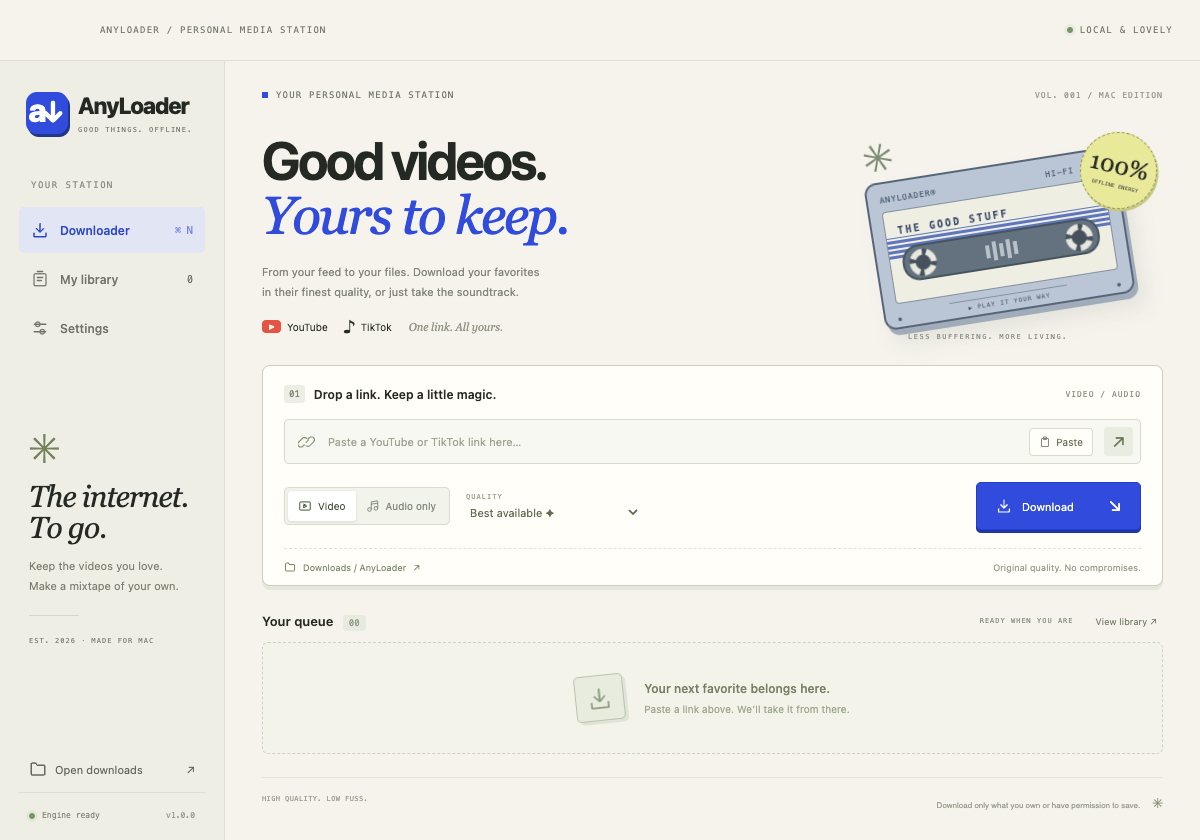
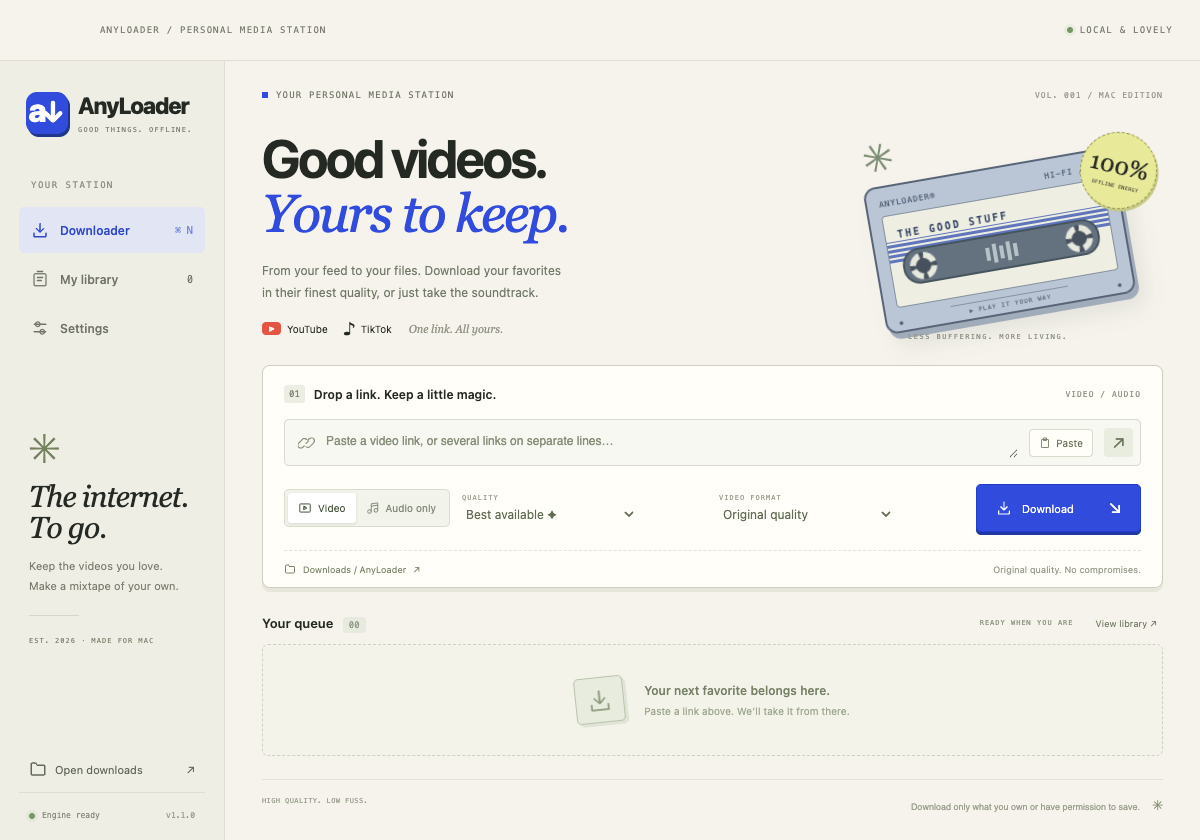
Document AnyLoader 1.1 with real editing-workflow screenshots

diff --git a/README.md b/README.md
@@ -2,7 +2,7 @@
   <img src="assets/icon.png" width="100" alt="AnyLoader app icon" />
   <h1>AnyLoader</h1>
   <p><strong>A little retro. A lot of resolution.</strong></p>
-  <p>Your personal media station for Mac.<br>Save YouTube and TikTok videos, or just take the soundtrack.</p>
+  <p>Your personal media station for Mac.<br>Collect editing references. Save templates. Take the soundtrack.</p>
   <p>
     <img alt="macOS 13 or later" src="https://img.shields.io/badge/macOS-13%2B-314cdd?style=flat-square" />
     <img alt="Apple Silicon" src="https://img.shields.io/badge/Apple_Silicon-native-758365?style=flat-square" />
@@ -23,9 +23,11 @@ No terminal, Homebrew, or separately installed download tools are needed to **us
 | --- | --- |
 | **YouTube & TikTok** | Individual videos, Shorts, and TikTok share links. |
 | **Best available quality** | Selects the best video and audio streams, then merges them. No artificial resolution cap on “Best available.” |
-| **Just the soundtrack** | Original audio, MP3, M4A, FLAC, or WAV. |
+| **Just the soundtrack** | Download original audio, MP3, M4A, FLAC, or WAV. Extract audio from a saved library video without downloading again. |
+| **Made for your edits** | H.264/AAC MP4 option, 48 kHz / 24-bit WAV exports, and optional start/end times for sound clips. |
 | **A proper queue** | Live progress, speed, ETA, one to three simultaneous downloads, pause, resume, cancel, and retry. |
-| **Your offline library** | Persistent history, search, filters, playback, and Show in Finder. |
+| **Your offline library** | Persistent history, favorites, search, video/audio/export filters, playback, and Show in Finder. |
+| **Less waiting** | Instant batch queueing for up to 20 links, a single metadata/download pass, and configurable parallel fragments. |
 | **Feels at home** | Custom Dock icon, Dock progress and badge, native menus, folder picker, and optional notifications. |
 | **Quiet by design** | No analytics, account, subscription, or application backend. Preferences and history stay on your Mac. |
 | **A little motion** | Animated tape reels and gentle transitions, with support for Reduce Motion. |
@@ -35,7 +37,7 @@ No terminal, Homebrew, or separately installed download tools are needed to **us
 1. Download the Apple Silicon ZIP from [Releases](https://github.com/alexandr-shalanin/anyloader/releases/latest).
 2. Unzip it and move **AnyLoader.app** into **Applications**.
 3. Open it, then right-click its Dock icon → **Options → Keep in Dock**.
-4. Paste a YouTube or TikTok video link. Choose **Video** or **Audio only**, select a quality or format, and press **Download**.
+4. Paste a YouTube or TikTok video link (or up to 20 links, one per line). Choose **Video** or **Audio only**, select a quality or format, and press **Download**.
 
 Files go to `~/Downloads/AnyLoader` by default. Click the destination below the download controls to choose another folder. Closing the window leaves the app and its downloads running; **⌘ Q** quits and pauses unfinished work. Open it again and press Resume to continue where the source supports it.
 
@@ -45,9 +47,20 @@ Files go to `~/Downloads/AnyLoader` by default. Click the destination below the 
 
 **Original quality · MKV** is the default. It preserves the highest-quality available source codecs, including AV1 or VP9 where offered. MKV is used when separate streams need merging; a source already containing both tracks can keep its original container. Use a player that supports the source codecs and container.
 
-**Compatible · MP4**, in Settings, prefers H.264 video and AAC audio. This can have a lower resolution than the original-quality option. If a source does not provide those codecs, the best available fallback is used; an MP4 extension alone does not guarantee QuickTime compatibility.
+**Editing MP4**, next to the quality selector, selects H.264 video and AAC audio for easier importing into editors. This can have a lower resolution than the original-quality option. If a source does not provide those codecs, AnyLoader reports that clearly instead of silently falling back to a different codec. It does not transcode video or invent higher resolutions.
 
 Resolution selections are **upper limits**. A 720p source cannot become real 4K. “Original audio” preserves the best available audio; MP3 uses the encoder's highest VBR quality. FLAC and WAV conversions do not restore detail that the source already lost.
+
+## From library to timeline
+
+1. Open **Library** and click **Extract audio** on a completed video.
+2. Choose **WAV · 48 kHz / 24-bit** for an editing-friendly file, or MP3, M4A, or FLAC.
+3. Leave the time fields blank for the whole soundtrack, or enter a start and end such as `0:12.500` and `0:18`.
+4. Press **Extract audio**. The export appears as a separate library item in your current download folder. The original video is never changed or overwritten.
+
+This runs locally using the saved file, with no new download or sign-in required. The first audio track is exported. Moved or silent videos get a clear error; pause/resume restarts a local export. Use the **Extracted audio** filter to find exports, and the star button to collect reusable templates in **Favorites**.
+
+![Real offline audio-export dialog using a generated test video](docs/screenshots/extract-audio.png)
 
 <details>
 <summary><strong>Take the soundtrack — real audio-mode screenshot</strong></summary>
@@ -70,12 +83,19 @@ Resolution selections are **upper limits**. A 720p source cannot become real 4K.
 
 </details>
 
-All screenshots above are captured directly from the running Electron application. No mock downloads or fabricated library entries are used.
+All screenshots are captured directly from the running Electron application. The audio-export dialog uses a real generated four-second test video; the completed-download screenshot shows actual TikTok downloads. Test media is not shipped with the app.
+
+## Download speed, honestly
+
+Links now enter the queue immediately; metadata arrives during the download process instead of requiring a separate preflight pass. **Settings → Download speed** offers conservative (1), balanced (4, default), or fast (8) simultaneous fragments for supported DASH/HLS streams. Parallel videos is a separate setting.
+
+Fragment concurrency does not speed up every source: direct-file downloads, server limits, Wi-Fi, and your available bandwidth still matter. More connections can also trigger rate limits. Start with Balanced and lower it if you see failures. AnyLoader retries transient failures with backoff and prevents idle system sleep while jobs are active; it cannot override lid closure or deliberate sleep. No fixed speed multiplier is promised.
 
 ## A few useful details
 
 - **Preview a link:** use the arrow next to Paste to check the title, author, duration, and available resolution before downloading.
-- **Keyboard shortcuts:** ⌘ N for a new download, ⌘ , for settings, ⌘ ⇧ O for the downloads folder, and standard Mac copy/paste shortcuts.
+- **Keyboard shortcuts:** ⌘ Enter to queue pasted links, ⌘ N for a new download, ⌘ , for settings, ⌘ ⇧ O for the downloads folder, and standard Mac copy/paste shortcuts.
+- **Remembered choices:** your last-used video/audio mode, quality, format, and container become the next session's defaults. Duplicate active jobs with identical settings are skipped.
 - **Restricted videos:** Settings → Browser session can use a browser you are already signed into. This is opt-in, and the browser or macOS may request access. It does not bypass permissions, DRM, payment, or availability restrictions.
 - **Interrupted downloads:** partial media stays in the destination to support resuming. Cancel and history removal do not delete downloaded or partial files.
 - **File variants:** filenames include the source ID and selected format/quality so different versions can coexist.
@@ -103,6 +123,7 @@ The first setup downloads an official yt-dlp release, verifies its SHA-256 check
 npm test         # URL security, format selection, and progress parsing
 npm run test:ui  # Run the desktop UI checks and refresh real screenshots
 npm run test:media # Verify real local downloads, merging, and audio conversion
+npm run test:editor # Verify offline exports, trimming, favorites, and batch queueing
 npm run build    # Generate the app icon, package, ad-hoc sign, verify, and zip
 ```
 
@@ -113,6 +134,7 @@ src/
   main.cjs           Mac integration, download queue, persistence, narrow IPC
   preload.cjs        Sandboxed bridge between UI and desktop capabilities
   core.cjs           URL validation, media selection, progress parsing
+  local-media.cjs    Offline audio export, time ranges, probing, cancellation
   renderer/          Interface, cassette illustration, animations
 scripts/
   setup.mjs          Verified downloader and bundled engine setup

diff --git a/docs/VERIFICATION.md b/docs/VERIFICATION.md
@@ -2,14 +2,17 @@
 
 Host: Apple Silicon, macOS 26.6.2.
 
-- Seven automated core tests passed: supported and malicious URLs, option sanitization, best quality, capped quality, audio extraction, and progress parsing.
+- Eleven automated tests passed: supported and malicious URLs, option sanitization, best/capped quality, strict H.264/AAC MP4 selection, progress parsing, export formats, and time-range validation.
 - Real Electron UI checks passed: launch, audio/video controls, rejected URL, saved settings, library navigation, minimum window width, and renderer isolation.
 - Real media pipeline checks passed for original video and original audio, MP3, M4A, FLAC, and WAV. Tests generate a local fixture, download it through the bundled yt-dlp executable, and inspect the output with bundled FFprobe.
 - Separate video and audio streams were merged without transcoding and verified with FFprobe.
-- A real public TikTok video was downloaded through the app, followed by its MP3 audio. FFprobe verified both files. The library screenshot shows those actual completed jobs.
+- Offline editor checks passed with real generated media: WAV (48 kHz / 24-bit), MP3, M4A, FLAC, an accurate one-second trim, cancellation, missing/silent-file errors, invalid ranges, favorites, and batch queueing. The original video's SHA-256 hash was unchanged after exports.
+- Two links entered the queue in 3 ms in development and 7 ms in the packaged app, without a metadata preflight. This measures queue latency, **not** transfer throughput. Fragment concurrency is configurable (1/4/8); no before/after network-speed multiplier has been established.
+- A real public TikTok video was downloaded through the app with Editing MP4, followed by its MP3 audio. FFprobe verified H.264/AAC video and audio-only MP3; titles arrived during the same download pass. The library screenshot shows those actual completed jobs. Codec aliases and absent metadata are covered by regression checks.
 - A public YouTube test request was blocked by YouTube's “sign in to confirm you're not a bot” response on this network. A successful live YouTube download is **not** claimed. The error is surfaced, and opt-in browser-session support is available. No private browser cookies were accessed during testing.
 - The app was packaged for ARM64, ad-hoc signed, and passed deep strict code-signature verification outside the iCloud-synced source folder. macOS 13 is the declared minimum; older macOS versions and Intel builds have not been exercised on this host.
+- The full offline-editor and UI checks were also run against the packaged v1.1.0 executable, not just the development app.
 - Runtime FFmpeg and FFprobe dependencies were checked: only macOS system libraries/frameworks, no Homebrew libraries.
 - Dependency audit reported zero known vulnerabilities after updating the build tools.
 
-Tests use temporary data directories. The installed application starts with an empty personal library. Real downloaded media used in verification is not included in the repository or release.
+Tests use temporary data directories and do not modify the user's personal library. The audio-export screenshot uses a real generated four-second fixture; downloaded or generated test media is not included in the repository or release.

diff --git a/.github/release-notes.md b/.github/release-notes.md
@@ -1,14 +1,17 @@
-AnyLoader 1.0 — your personal media station for Mac.
+AnyLoader 1.1 — ready for your next edit.
 
-- A 90s-inspired ivory-and-cobalt interface with animated cassette artwork.
-- YouTube and TikTok video downloads with best-source selection and optional resolution limits.
-- Separate audio downloads: original, MP3, M4A, FLAC, and WAV.
-- Queue, progress, pause/resume, cancel, retry, searchable history, and Finder integration.
+- Extract audio from saved library videos, entirely offline: WAV (48 kHz / 24-bit), MP3, M4A, and FLAC.
+- Optional start/end times for exporting just the sound you need. Original videos remain untouched.
+- Favorites and an Extracted audio library filter for reusable editing assets.
+- Paste up to 20 links, queue immediately, and receive metadata in the same download pass.
+- Balanced/fast/conservative fragment concurrency, retries with backoff, and idle-sleep protection during work. Actual throughput depends on the source and network.
+- Editing MP4 explicitly selects H.264/AAC and reports unavailable formats instead of silently substituting other codecs.
+- Remembered format choices and less frequent progress redraws.
 - A standalone Apple Silicon app with yt-dlp, FFmpeg, FFprobe, and Deno bundled.
 
 ## Install
 
-Download `AnyLoader-1.0.0-mac-arm64.zip`, unzip, and drag **AnyLoader.app** to Applications. Requires an Apple Silicon Mac running macOS 13 or later.
+Download `AnyLoader-1.1.0-mac-arm64.zip`, unzip, and drag **AnyLoader.app** to Applications. Requires an Apple Silicon Mac running macOS 13 or later. Existing history and settings are preserved.
 
 This release is ad-hoc signed, not Developer ID signed or notarized. If macOS blocks the first launch, use **System Settings → Privacy & Security → Open Anyway** for this trusted download.
 
